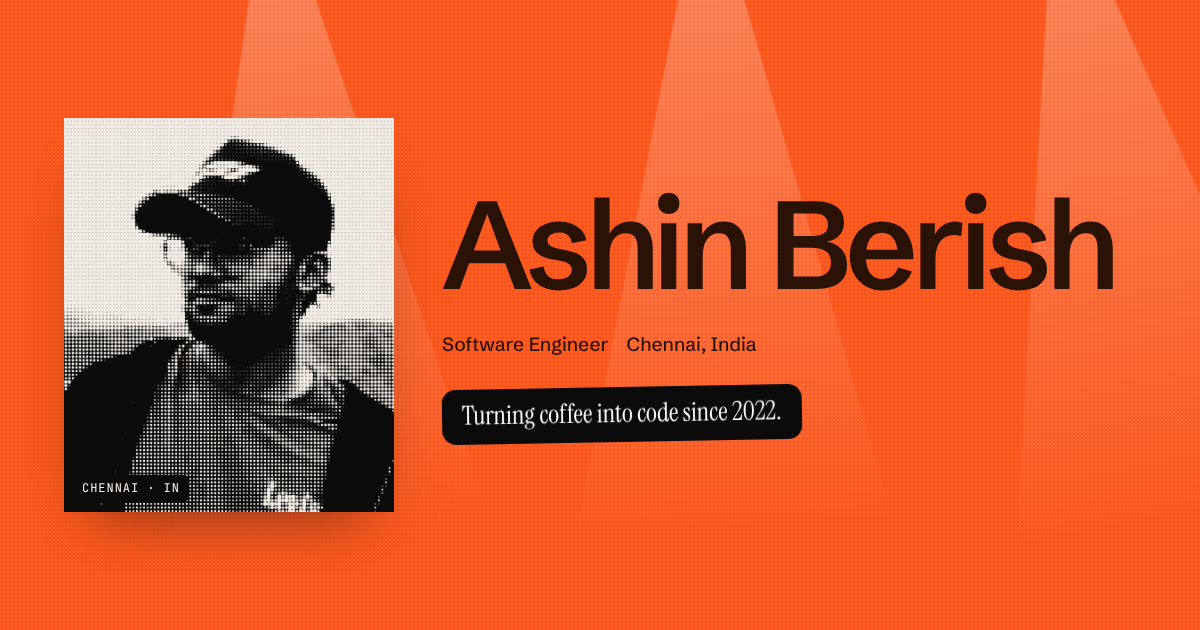
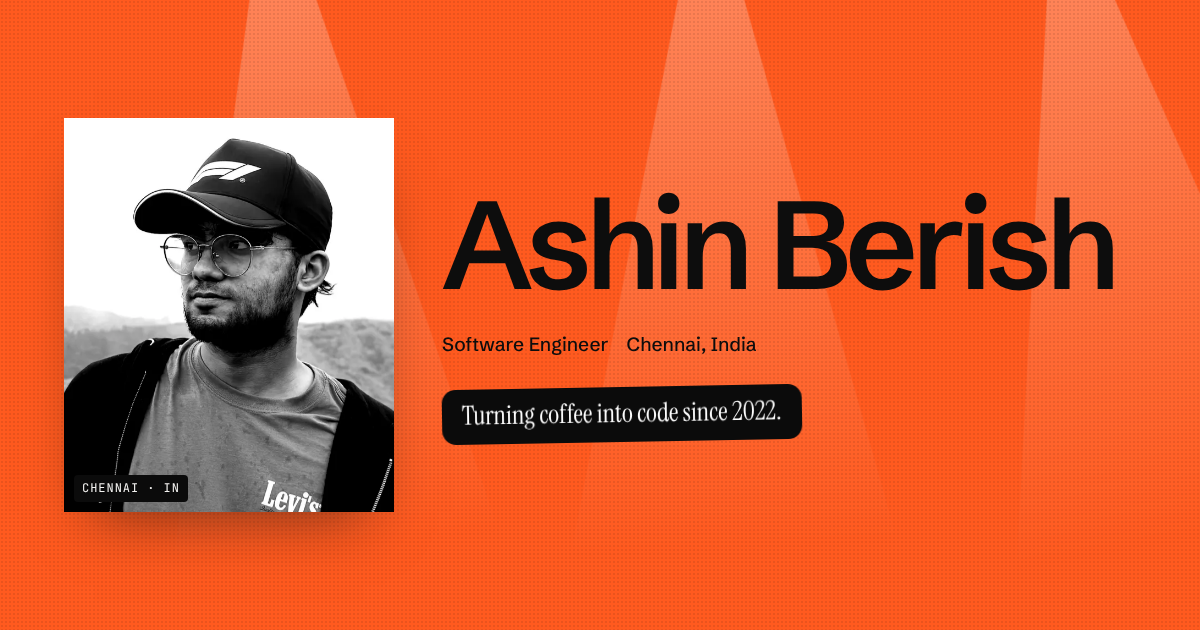
Switch palette from brown to Graphite
Black text on orange and neutral charcoal sections replace the brown ink
and warm-tinted darks everywhere: hero text, skills strip, footer,
loader, cursor tints, favicon, touch icon and social preview image.

Claude-Session: https://claude.ai/code/session_01JJSnw3KndMcJWmDJZS9gZc

diff --git a/src/styles.css b/src/styles.css
@@ -5,16 +5,16 @@
 @import '@fontsource/instrument-serif/latin-400-italic.css';
 @import '@fontsource/jetbrains-mono/latin-400.css';
 
-/* Layout: a keynote stage. Orange screen hero with a halftone portrait and a name set at
+/* Layout: a keynote stage (Graphite palette). Orange screen hero with a halftone portrait and a name set at
    screen scale, then dark "stage floor" bands for the content below. Single deliberate look. */
 :root {
   --stage: #ff5a1f;
-  --ink: #2a1206;
-  --floor: #121010;
-  --floor-2: #1d1917;
-  --paper: #f6efe9;
-  --muted: #a39890;
-  --line: rgba(246, 239, 233, .14);
+  --ink: #0d0d0d;
+  --floor: #111112;
+  --floor-2: #1a1a1c;
+  --paper: #f4f3f1;
+  --muted: #8c8b89;
+  --line: rgba(244, 243, 241, .14);
   --ease: cubic-bezier(.2, .7, .2, 1);
   --display: 'Schibsted Grotesk', 'Helvetica Neue', Arial, sans-serif;
   --serif: 'Instrument Serif', 'Times New Roman', serif;
@@ -77,13 +77,13 @@ nav .wrap { display: flex; align-items: center; justify-content: space-between; 
 .beam.b3 { left: 70%; --r: 18deg; animation-delay: .7s, -6s; }
 @keyframes beamIn { to { opacity: 1; } }
 @keyframes sway { from { transform: rotate(var(--r)); } to { transform: rotate(calc(var(--r) * -.6)); } }
-.grain { position: absolute; inset: 0; z-index: -1; opacity: .18; mix-blend-mode: multiply; background-image: radial-gradient(rgba(42, 18, 6, .5) 1px, transparent 1px); background-size: 4px 4px; }
+.grain { position: absolute; inset: 0; z-index: -1; opacity: .18; mix-blend-mode: multiply; background-image: radial-gradient(rgba(13, 13, 13, .5) 1px, transparent 1px); background-size: 4px 4px; }
 
 .hero-grid { display: grid; grid-template-columns: minmax(220px, 360px) 1fr; gap: clamp(24px, 4vw, 64px); align-items: center; padding-block: 112px 72px; }
 
 .portrait {
   position: relative; aspect-ratio: 600 / 716; max-width: 100%; background: #0b0b0b; overflow: hidden;
-  box-shadow: 0 30px 60px -30px rgba(42, 18, 6, .6);
+  box-shadow: 0 30px 60px -30px rgba(13, 13, 13, .6);
   animation: rise 1s .15s var(--ease) both;
 }
 .portrait img { width: 100%; height: 100%; object-fit: cover; }
@@ -136,7 +136,7 @@ nav .wrap { display: flex; align-items: center; justify-content: space-between; 
 .about-grid > * { min-width: 0; }
 .statement { font-size: clamp(28px, 4.2vw, 60px); line-height: 1.08; letter-spacing: -.03em; font-weight: 500; max-width: 30ch; text-wrap: pretty; }
 .statement em { font-family: var(--serif); font-style: italic; font-weight: 400; }
-.statement.scrub .w { color: rgba(246, 239, 233, .22); transition: color .3s; }
+.statement.scrub .w { color: rgba(244, 243, 241, .22); transition: color .3s; }
 .statement.scrub .w.lit { color: var(--paper); }
 .fact { display: flex; justify-content: space-between; gap: 16px; padding-block: 14px; border-bottom: 1px solid var(--line); }
 .fact dt { color: var(--muted); }
@@ -158,7 +158,7 @@ nav .wrap { display: flex; align-items: center; justify-content: space-between; 
 
 /* contact */
 .contact { background: var(--stage); color: var(--ink); overflow: hidden; }
-.contact .sec-head { color: var(--ink); border-color: rgba(42, 18, 6, .25); }
+.contact .sec-head { color: var(--ink); border-color: rgba(13, 13, 13, .25); }
 .big-cta { font-size: clamp(36px, 7.6vw, 120px); font-weight: 700; letter-spacing: -.06em; line-height: .9; white-space: nowrap; }
 .big-cta span { display: inline-block; }
 .socials { display: flex; flex-wrap: wrap; gap: 12px; margin-top: 48px; }
@@ -219,19 +219,19 @@ footer .wrap { display: flex; justify-content: space-between; gap: 16px; flex-wr
 /* iPadOS-style pointer (fine pointers only; geometry driven by Cursor.tsx).
    Translucent ink on orange surfaces, translucent paper on dark ones. */
 .cursor {
-  --cur: rgba(246, 239, 233, .38);
-  --cur-snap: rgba(246, 239, 233, .14);
+  --cur: rgba(244, 243, 241, .38);
+  --cur-snap: rgba(244, 243, 241, .14);
   position: fixed; left: 0; top: 0; z-index: 60; pointer-events: none;
   width: 18px; height: 18px; border-radius: 9px;
   background: var(--cur); opacity: 0;
   transition: opacity .25s, background-color .25s;
   will-change: transform, width, height;
 }
-.cursor[data-surface='light'] { --cur: rgba(42, 18, 6, .42); --cur-snap: rgba(42, 18, 6, .12); }
+.cursor[data-surface='light'] { --cur: rgba(13, 13, 13, .42); --cur-snap: rgba(13, 13, 13, .12); }
 .cursor.on { opacity: 1; }
 .cursor[data-mode='snap'] { background: var(--cur-snap); }
-.cursor[data-mode='text'] { --cur: rgba(246, 239, 233, .7); }
-.cursor[data-mode='text'][data-surface='light'] { --cur: rgba(42, 18, 6, .75); }
+.cursor[data-mode='text'] { --cur: rgba(244, 243, 241, .7); }
+.cursor[data-mode='text'][data-surface='light'] { --cur: rgba(13, 13, 13, .75); }
 .has-cursor, .has-cursor * { cursor: none !important; }
 /* the pointer's highlight replaces the pill's own hover fill */
 .has-cursor .mag:hover { background: transparent; color: inherit; }

diff --git a/src/components/Halftone.tsx b/src/components/Halftone.tsx
@@ -58,7 +58,7 @@ export const Halftone = ({ alt }: { alt: string }) => {
       const p = Math.min(1, Math.max(0, (t - start) / 1600))
       ctx.fillStyle = '#0b0b0b'
       ctx.fillRect(0, 0, W, H)
-      ctx.fillStyle = '#f2ece6'
+      ctx.fillStyle = '#f4f3f1'
       for (const d of dots) {
         const local = Math.max(0, Math.min(1, p * 1.6 - d.dist))
         const r = d.r * (1 - Math.pow(1 - local, 3))
